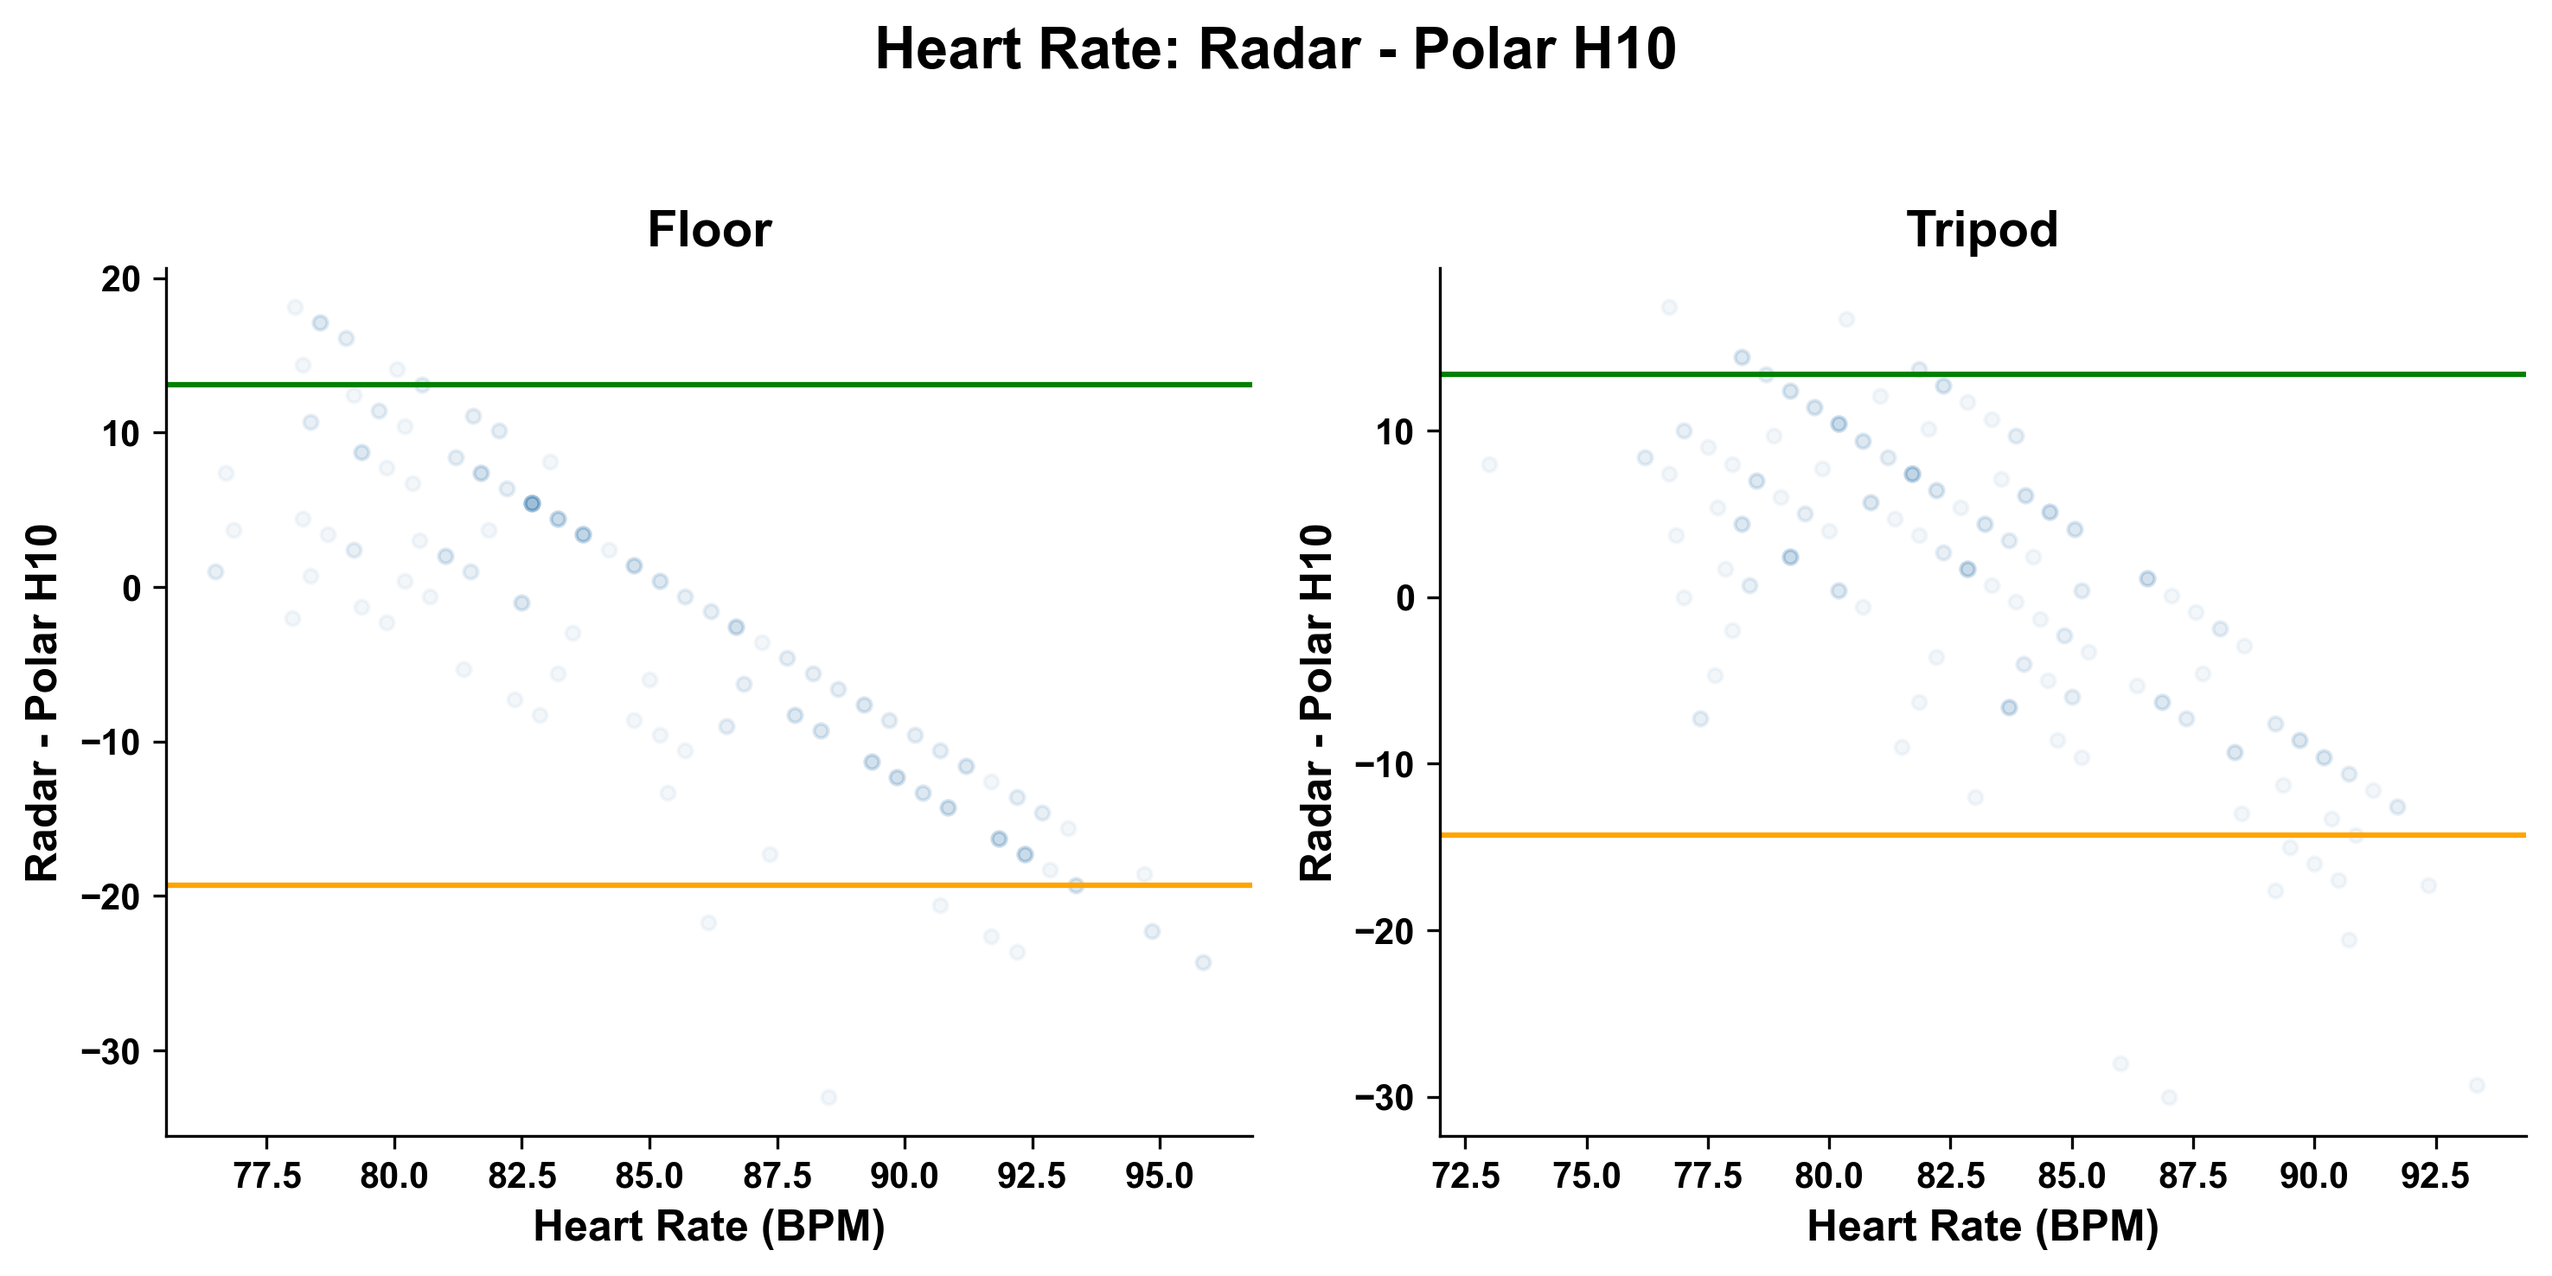
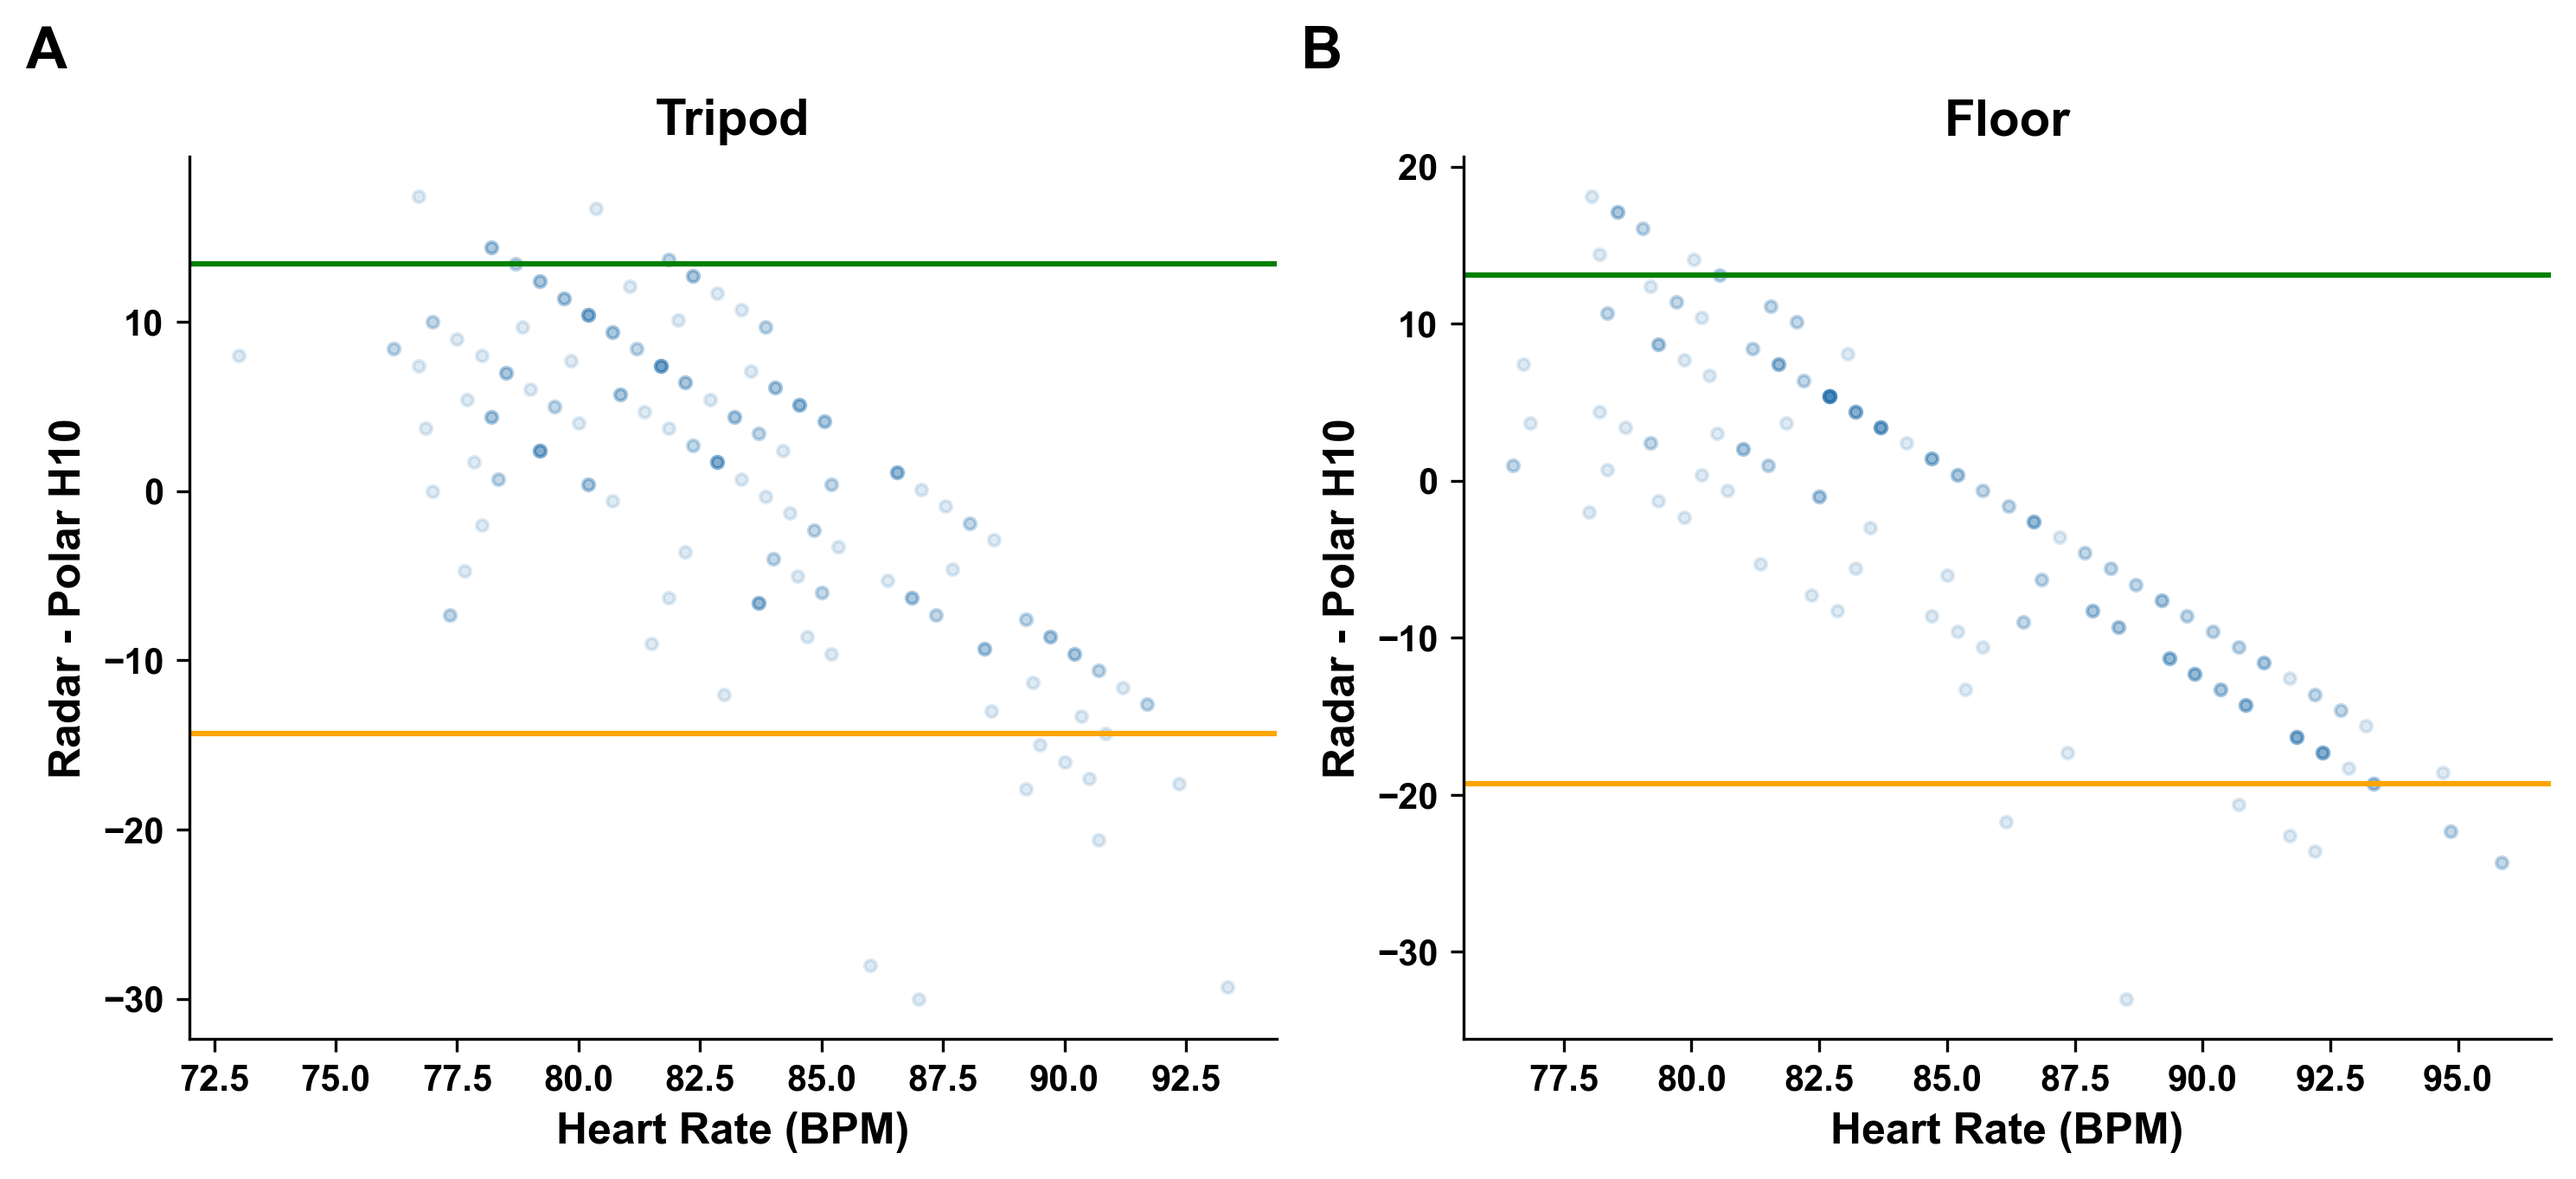
bland altman plots updated

diff --git a/src/plot_ba.py b/src/plot_ba.py
@@ -19,11 +19,11 @@ class Plot_specs:
     }
     PHYSIO_MAPPINGS = {
         'heartrate' : 'Heart Rate',
-        'breath' : 'Breath' # TODO find better descriptor
+        'breath' : 'Respiratory Rate'
     }
     X_LABEL_MAPPINGS = {
         'heartrate' : 'Heart Rate (BPM)',
-        'breath' : "Breath Rate (BPM)"
+        'breath' : "Respiratory Rate (Breaths/Min)"
     }
 
     def __init__(self, physio: str, data_a_mode: str, data_b_mode: str):
@@ -61,18 +61,29 @@ class Plot_specs:
     def plot(self):
         ps.color_style()
         fig, axes = plt.subplots(1, 2, figsize=(10, 5))
-
-        self._plot_subplot(axes[0], self._floor_a, self._floor_b, 'Floor')
-        axes[0].set_title('Floor', fontweight='bold', fontsize=14)
+        
+        self._plot_subplot(axes[0], self._tripod_a, self._tripod_b, 'Tripod')
+        axes[0].set_title('Tripod', fontweight='bold', fontsize=14)
         axes[0].set_xlabel(self._x_label, fontweight='bold', fontsize=12)
         axes[0].set_ylabel(self._y_label, fontweight='bold', fontsize=12)
-        
-        self._plot_subplot(axes[1], self._tripod_a, self._tripod_b, 'Tripod')
-        axes[1].set_title('Tripod', fontweight='bold', fontsize=14)
+
+        self._plot_subplot(axes[1], self._floor_a, self._floor_b, 'Floor')
+        axes[1].set_title('Floor', fontweight='bold', fontsize=14)
         axes[1].set_xlabel(self._x_label, fontweight='bold', fontsize=12)
         axes[1].set_ylabel(self._y_label, fontweight='bold', fontsize=12)
+
+        def add_letter(ax, letter: str) -> None:
+            letter_size = 16
+            ax.text(-0.15, 1.1, letter,
+                    transform=ax.transAxes, size=letter_size,
+                    weight='bold', fontfamily='Arial')
+            return
+
+
+        add_letter(axes[0], 'A')
+        add_letter(axes[1], 'B')
         
-        fig.suptitle(f'{self._physio_str}: {self._y_label}'.title(), fontweight='bold', fontsize=16)
+        # fig.suptitle(f'{self._physio_str}: {self._y_label}'.title(), fontweight='bold', fontsize=16)
         plt.tight_layout(rect=[0, 0, 1, 0.95])
         outpath = os.path.join(FIGURE_DIR, f'{self._physio_str}_{self._b_str}.png')
         plt.savefig(outpath, dpi=300)
@@ -93,7 +104,7 @@ class Plot_specs:
         lower_limit = sorted_differences[lower_percentile_index]
         upper_limit = sorted_differences[upper_percentile_index]
 
-        ax.scatter(means, differences, color='#1d6CAB', alpha=0.05, s=15)
+        ax.scatter(means, differences, color='#1d6CAB', alpha=0.14, s=10)
         ax.axhline(y=upper_limit, color='green', linestyle='-', label='95th Percentile')
         ax.axhline(y=lower_limit, color='orange', linestyle='-', label='5th Percentile')
 

diff --git a/figure_scripts/pulse_final.py b/figure_scripts/pulse_final.py
@@ -52,7 +52,6 @@ def process_csv_file(vitals_file_path, parts_combined, subfolder):
     
     vitals_data['Seconds'] = vitals_data['Time for Pulse'].apply(vitals_time_to_seconds).astype(float)
     parts_combined['Seconds'] = parts_combined['Timestamp'].apply(radar_time_to_seconds)
-
     parts_combined['Heart Rate'] = pd.to_numeric(parts_combined['Heart Rate'], errors='coerce')
 
     def find_closest_radar_heart_rate(target_time):
@@ -86,10 +85,12 @@ def process_csv_file(vitals_file_path, parts_combined, subfolder):
     y_ticks = np.arange(y_min, y_max + 1, tick_interval)
     plt.yticks(y_ticks)
 
+    ic(vitals_file_path, vitals_data['Radar Heart Rate'])
     plt.tight_layout()
-    output_file_name = f"figures/pulse/{subfolder}_heart_comparison.png"
-    os.makedirs(os.path.dirname(output_file_name), exist_ok=True)
-    plt.savefig(output_file_name)
+    plt.show()
+    # output_file_name = f"figures/pulse/{subfolder}_heart_comparison.png"
+    # os.makedirs(os.path.dirname(output_file_name), exist_ok=True)
+    # plt.savefig(output_file_name)
     plt.close()
 
     print(f"\nResults for {subfolder}:")
